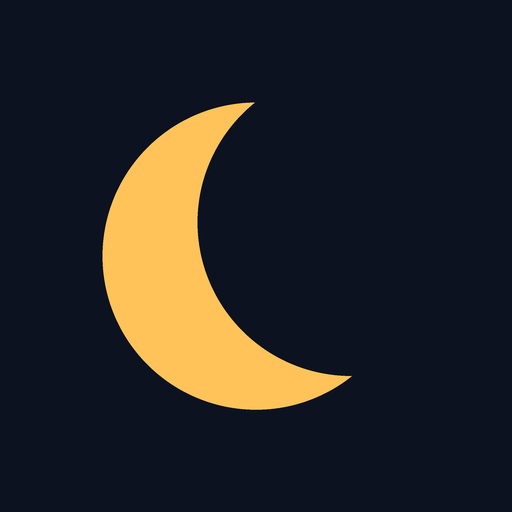
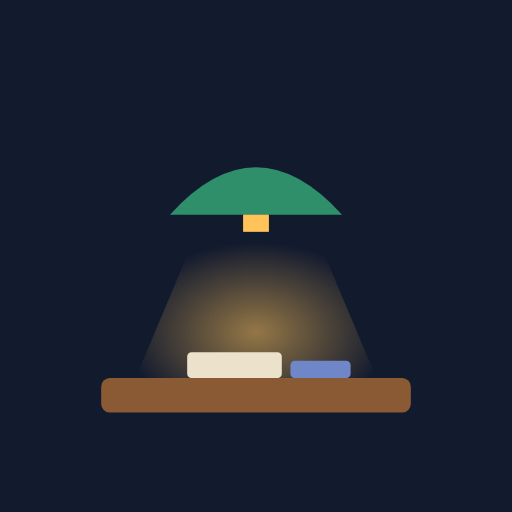
앱 아이콘을 열람실 스탠드(3번)로 바꾸기
Claude-Session: https://claude.ai/code/session_01YGey35kFspeys2t9AuSqK4

Changed region(s): [[0.1875, 0.1875, 0.8125, 0.8125]]

diff --git a/index.html b/index.html
@@ -15,8 +15,8 @@ window.addEventListener('load',function(){setTimeout(function(){if(!window.__kkS
 </script>
 <link rel="manifest" href="/manifest.webmanifest">
 <meta name="theme-color" content="#0d1220">
-<link rel="apple-touch-icon" href="/apple-touch-icon.png">
-<link rel="icon" href="/icon-192.png">
+<link rel="apple-touch-icon" href="/apple-touch-icon.png?v=3">
+<link rel="icon" href="/icon-192.png?v=3">
 <meta name="apple-mobile-web-app-capable" content="yes">
 <meta name="mobile-web-app-capable" content="yes">
 <meta name="apple-mobile-web-app-title" content="꿈이룸">
@@ -327,7 +327,7 @@ button,input{font:inherit;color:inherit}
   <button id="viewHome" class="vhome glass" hidden>내 자리로</button>
 </div>
 <div id="install" class="install glass" role="dialog" aria-labelledby="installTitle" hidden>
-  <img src="/icon-192.png" alt="" width="44" height="44">
+  <img src="/icon-192.png?v=3" alt="" width="44" height="44">
   <div class="i-txt"><b id="installTitle">꿈이룸을 홈 화면에 추가할까요?</b><span id="installSub">앱처럼 바로 들어와서 공부할 수 있어요.</span></div>
   <div class="i-btns"><button id="installNo" class="i-no" type="button">나중에</button><button id="installYes" class="i-yes" type="button">추가하기</button></div>
 </div>
